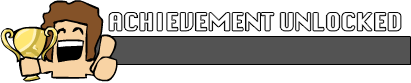
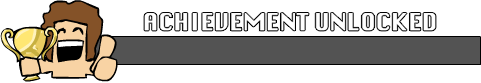
Made achievement popup slightly longer.

Changed region(s): [[0.0, 0.0, 0.9927, 0.988]]

diff --git a/COMP476Proj/COMP476Proj/UI/AchievementToast.cs b/COMP476Proj/COMP476Proj/UI/AchievementToast.cs
@@ -122,7 +122,7 @@ namespace COMP476Proj
             Vector2 titleSize = titleFont.MeasureString(title);
             Vector2 textSize = textFont.MeasureString(description);
             Vector2 titlePos = new Vector2(
-                (X + 125 + (width-125) / 2 - titleSize.X / 2)*scale + offset.X,
+                (X + 160 + (width-160) / 2 - titleSize.X / 2)*scale + offset.X,
                 (Y + 40 + borderWidth * 2)*scale + offset.Y);
 
             spriteBatch.DrawString(titleFont, title, titlePos, Color.Black, 0, Vector2.Zero, scale, SpriteEffects.None, 0);

diff --git a/COMP476Proj/COMP476Proj/UI/ConcreteAchievements.cs b/COMP476Proj/COMP476Proj/UI/ConcreteAchievements.cs
@@ -237,7 +237,7 @@ namespace COMP476Proj
     {
         private int countTo;
         public Achievement_LoseCops(int countTo)
-            : base("Lost " + (countTo == 1 ? "A" : countTo.ToString()) + " Dump Cop" + (countTo == 1 ? "" : "s"), "", 0)
+            : base("Lost " + (countTo == 1 ? "A" : countTo.ToString()) + " Dumb Cop" + (countTo == 1 ? "" : "s"), "", 0)
         {
             this.countTo = countTo;
         }
